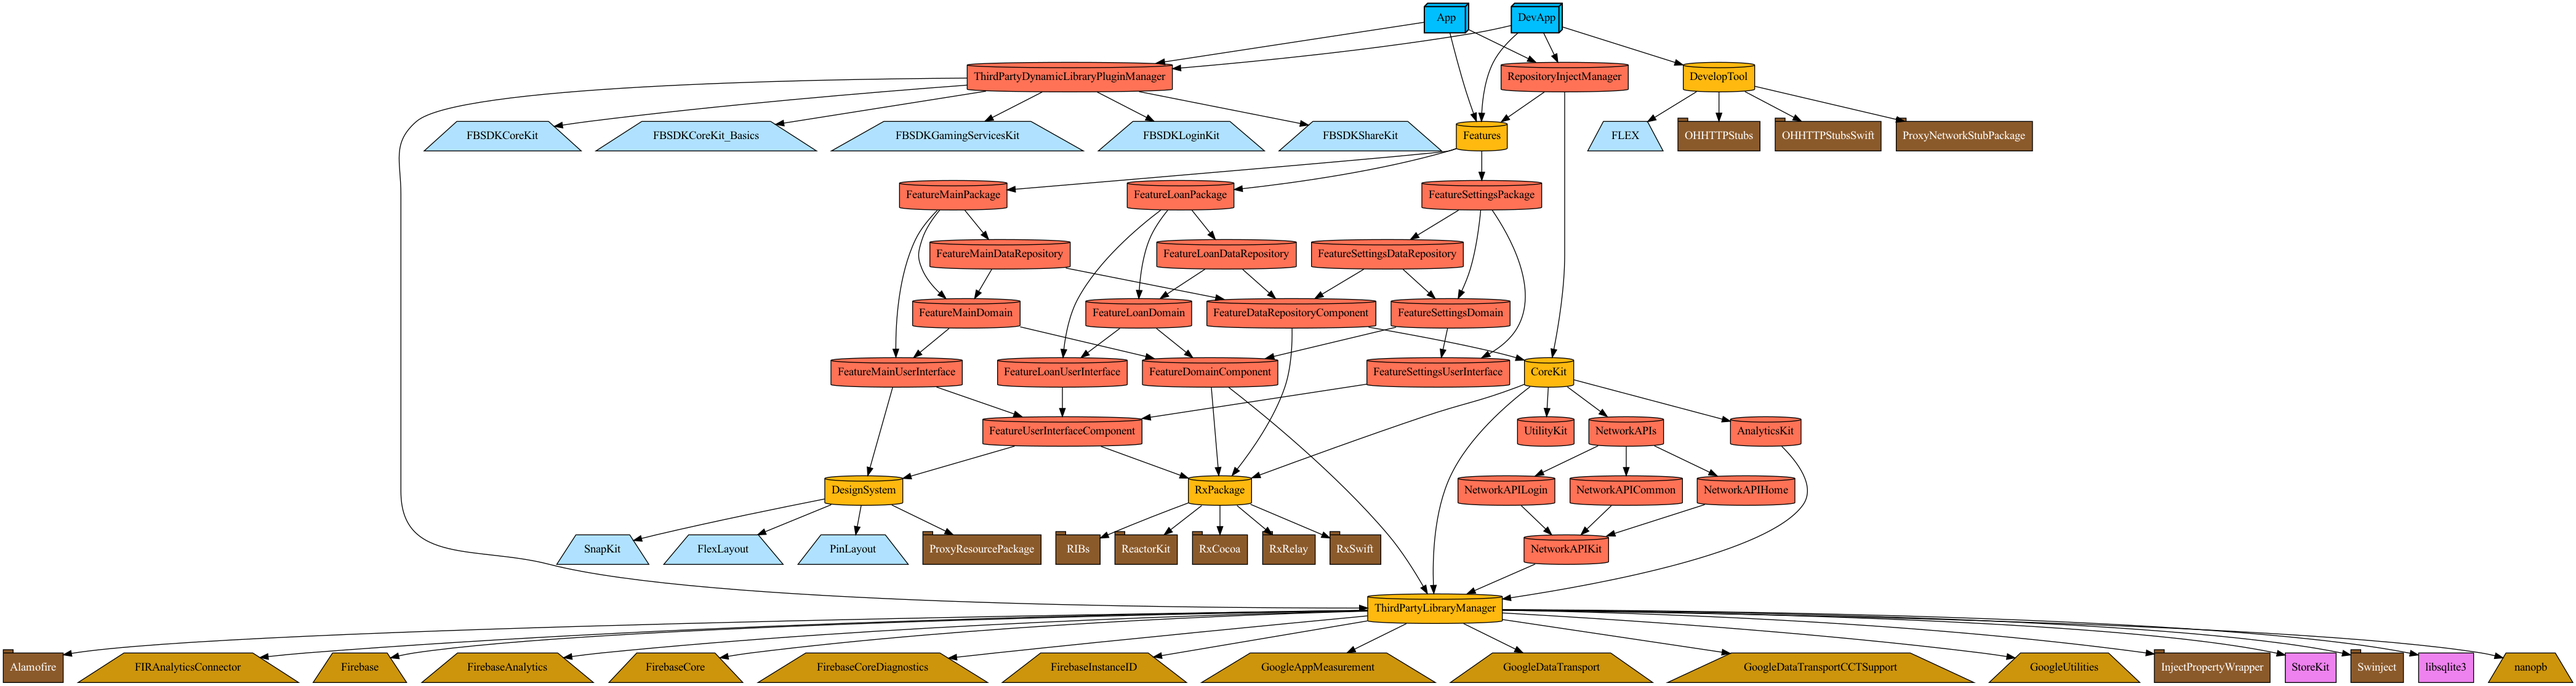
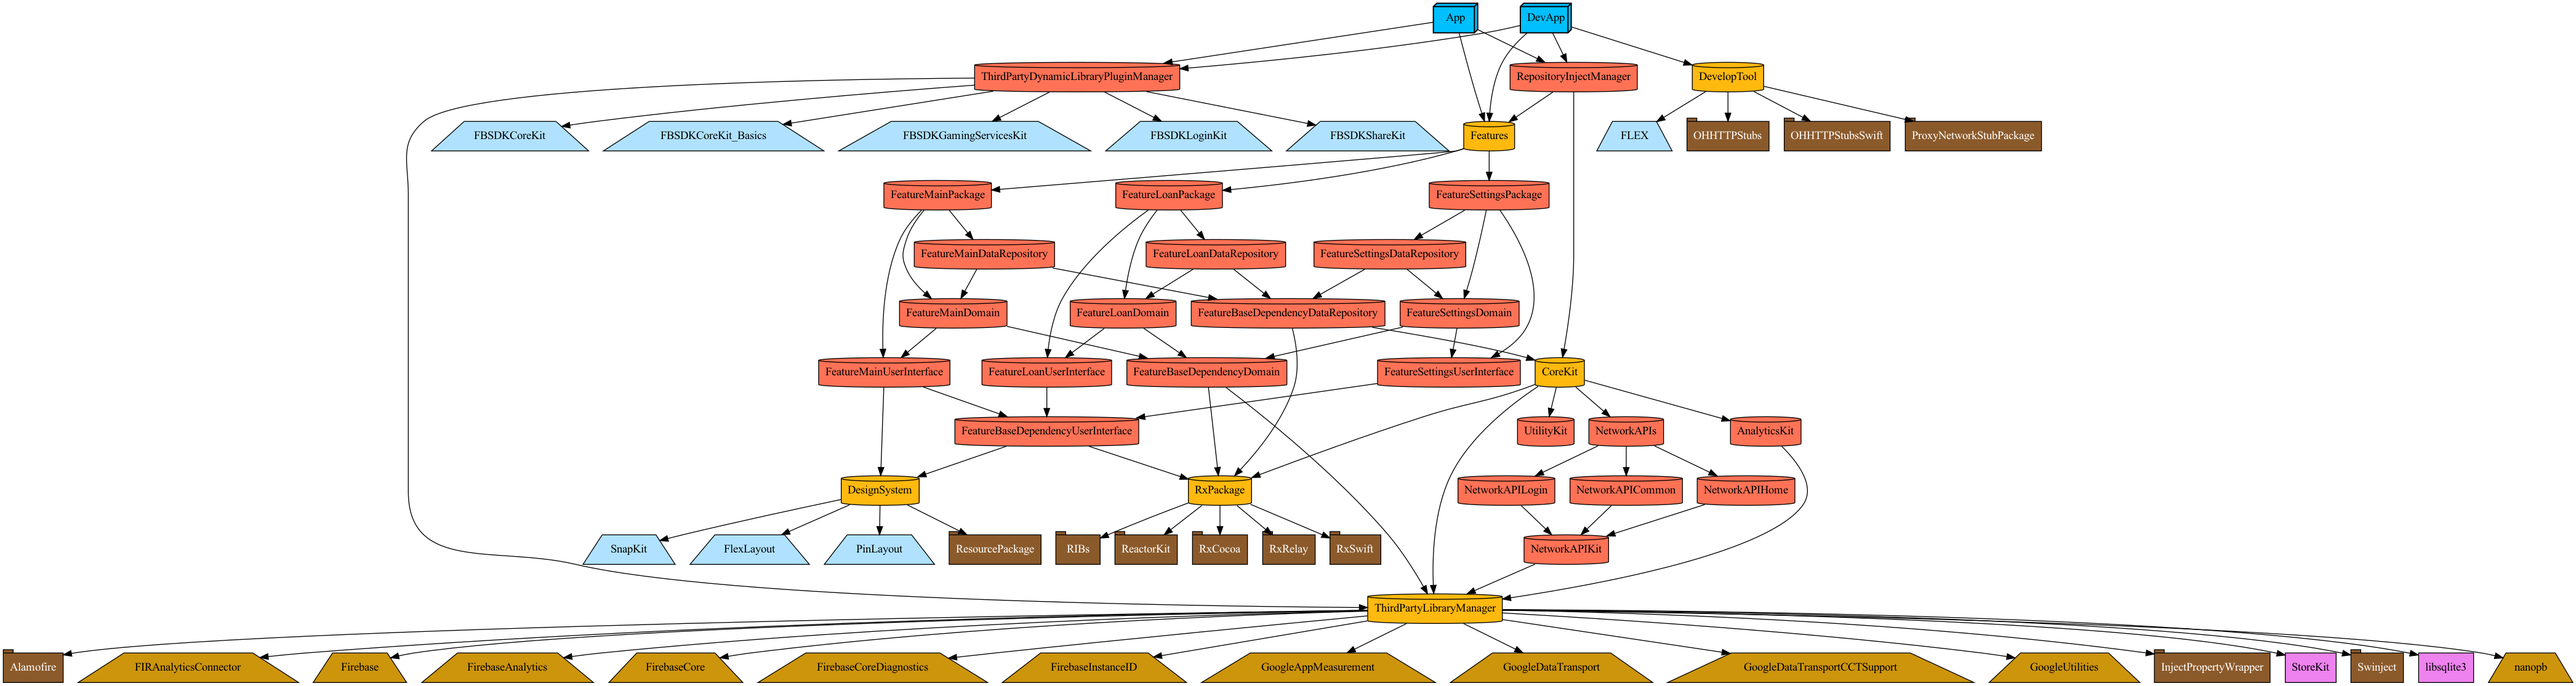
ProxyResourcePackage 제거

diff --git a/Plugin/UtilityPlugin/ProjectDescriptionHelpers/Dependency+SwiftPM.swift b/Plugin/UtilityPlugin/ProjectDescriptionHelpers/Dependency+SwiftPM.swift
@@ -61,9 +61,9 @@ public extension Package.DevelopTool {
 // MARK: - Swift Package User Interface
 
 public extension Dep.SwiftPM.UserInterface {
-    static let ProxyResourcePackage      = Dep.package(product: "ProxyResourcePackage")
+    static let ResourcePackage = Dep.package(product: "ResourcePackage")
 }
 
 public extension Package.UserInterface {
-    static let ProxyResourcePackage = Package.local(path: .relativeToUserInterface("ProxyResourcePackage"))
+    static let ResourcePackage = Package.local(path: .relativeToUserInterface("ResourcePackage"))
 }

diff --git a/Projects/UserInterface/DesignSystem/Project.swift b/Projects/UserInterface/DesignSystem/Project.swift
@@ -4,10 +4,10 @@ import ProjectDescriptionHelpers
 let project = Project
     .framework(name: "DesignSystem",
                packages: [
-                .UserInterface.ProxyResourcePackage,
+                .UserInterface.ResourcePackage,
                ],
                dependencies: [
-                .SwiftPM.UserInterface.ProxyResourcePackage,
+                .SwiftPM.UserInterface.ResourcePackage,
                 .Framework.FlexLayout,
                 .Framework.PinLayout,
                 .Framework.SnapKit,
